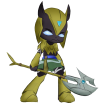
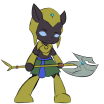
ASHE ANIMATIONS WHOOOOOO

diff --git a/main.py b/main.py
@@ -88,12 +88,15 @@ def menu():
             Info.buttDict["newGame"] = Button(325, 375, 300, 100, screen,
                                               label=pygame.font.SysFont("Microsoft Yahei UI Light", 50).render(
                                                   "New Game", 1, (255, 255, 255)))
-            Info.buttDict["loadGame"] = Button((1300 - 300) / 2, 500, 300, 100, screen,
+            Info.buttDict["loadGame"] = Button(325, 500, 300, 100, screen,
                                                label=pygame.font.SysFont("Microsoft Yahei UI Light", 50).render(
                                                    "Load Game", 1, (255, 255, 255)))
             Info.buttDict["endless"] = Button(675, 375, 300, 100, screen,
                                                label=pygame.font.SysFont("Microsoft Yahei UI Light", 50).render(
                                                    "Endless", 1, (255, 255, 255)))
+            Info.buttDict["quitGame"] = Button(675, 500, 300, 100, screen,
+                                               label=pygame.font.SysFont("Microsoft Yahei UI Light", 50).render(
+                                                   "Quit", 1, (255, 255, 255)))
             if len(data) == 0:
                 Info.buttDict["loadGame"].color = (100, 100, 100)
         screen.fill((200, 30, 150))
@@ -152,6 +155,8 @@ def menu():
                     with open("highscore.txt") as file:
                         Info.highscore = int(file.readline())
                     break
+                if i == "quitGame":
+                    sys.exit()
 
         pygame.display.update()
         pygame.time.Clock().tick(60)

diff --git a/Nasus.py b/Nasus.py
@@ -27,6 +27,10 @@ class Nasus(Champion):
         self.super = False
 
     def draw(self, screen):
+        if len(self.atkAnim) > 0 and self.animStart is not None and self.animStart + self.atkspd * 1000 > Info.acTime:
+            self.img = self.atkAnim[int((self.animStart + self.atkspd * 1000 - Info.acTime) / self.atkspd / 1000 * len(self.atkAnim))-1]
+        else:
+            self.img = self.idleimg
         self.actDesc = "Next attack deals (" + str(self.Qbonus) + ") extra damage. Damage permanently increased if it kills enemy. Super Form at 10 stacks."
         screen.blit(pygame.transform.flip(self.img, self.rot >= 90 or self.rot <= -90,  False), (self.x, self.y))
         if Info.selected is self:
@@ -88,6 +92,7 @@ class Nasus(Champion):
                 self.Qbonus += 1
                 Info.dieEffect(self.cx, self.y+self.size, 2, (0, 255, 0))
         self.Q = False
+        self.animStart = Info.acTime
 
 
     def useAbility(self):

diff --git a/Champion.py b/Champion.py
@@ -59,7 +59,6 @@ class Champion:
 
 
     def draw(self, screen):
-
         if len(self.atkAnim) > 0 and self.animStart is not None and self.animStart + self.atkspd * 1000 > Info.acTime:
             self.img = self.atkAnim[int((self.animStart + self.atkspd * 1000 - Info.acTime) / self.atkspd / 1000 * len(self.atkAnim))-1]
         else:
